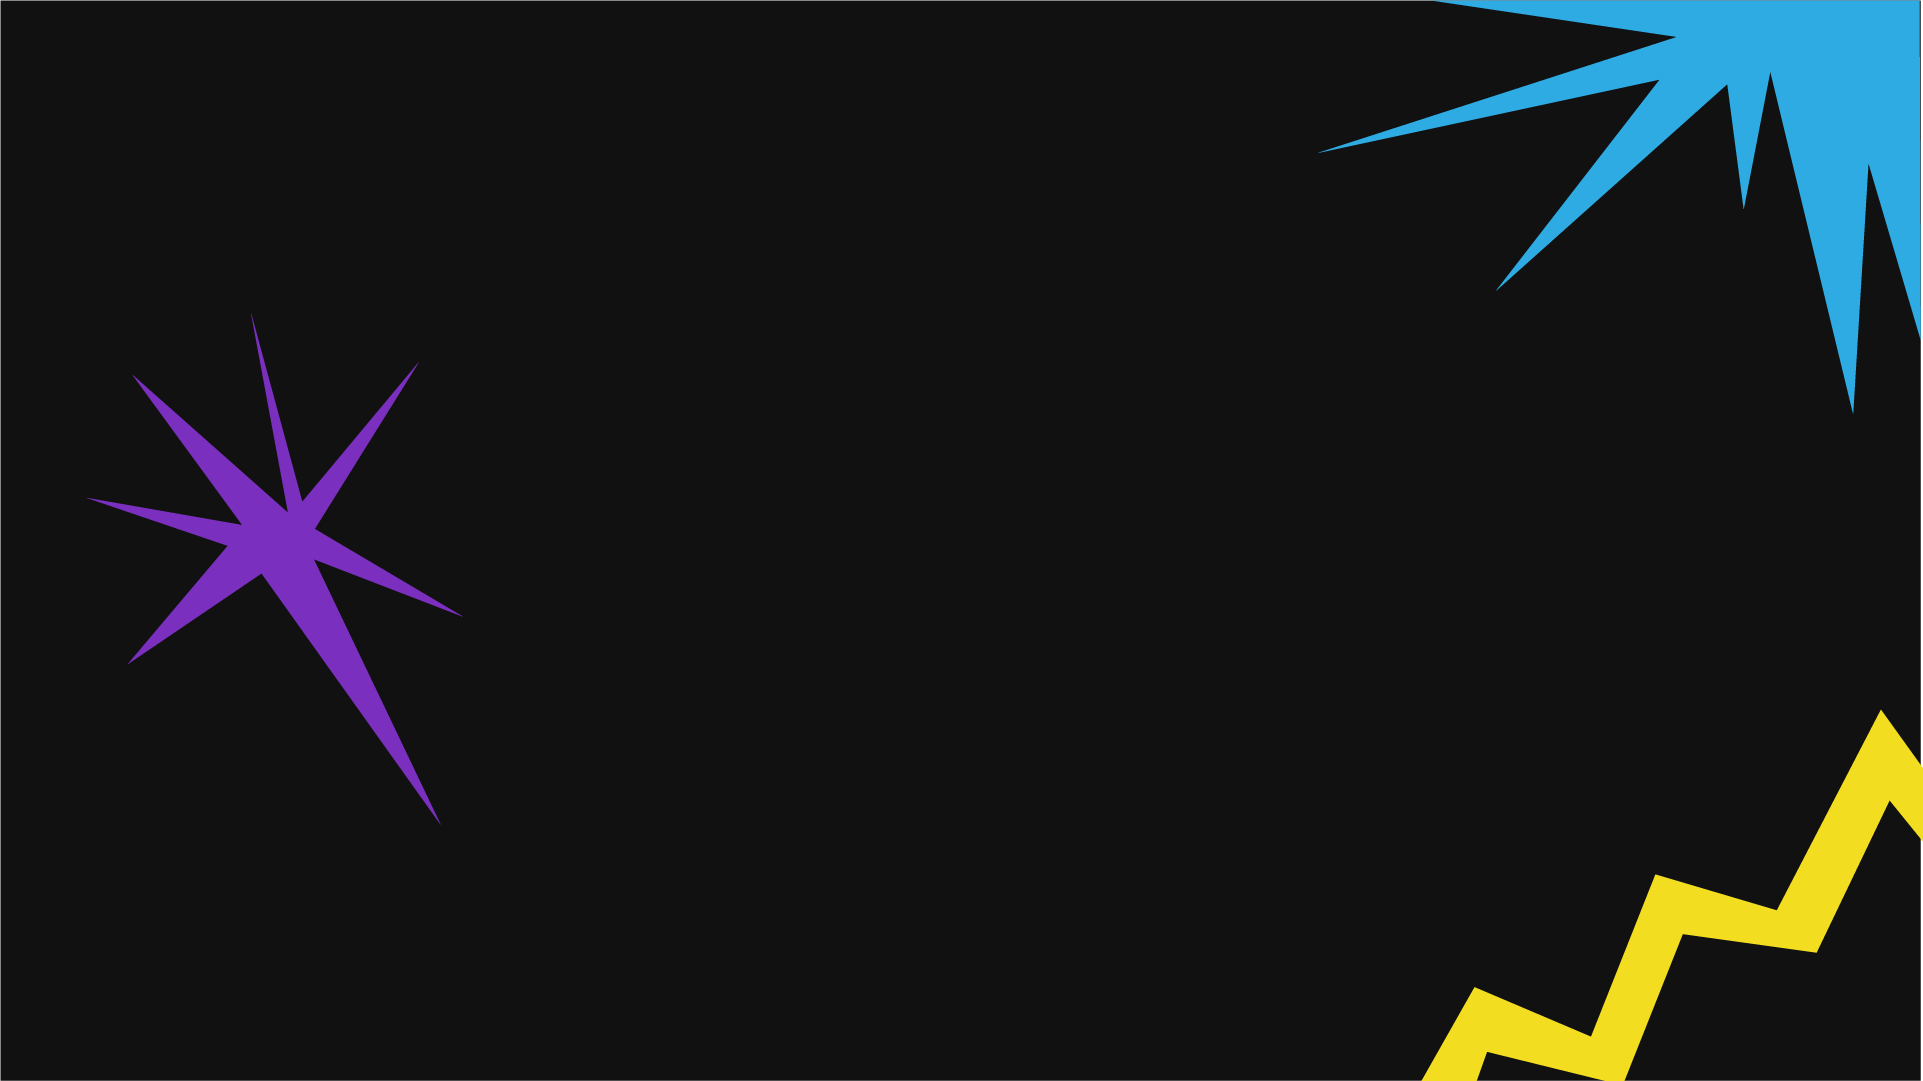
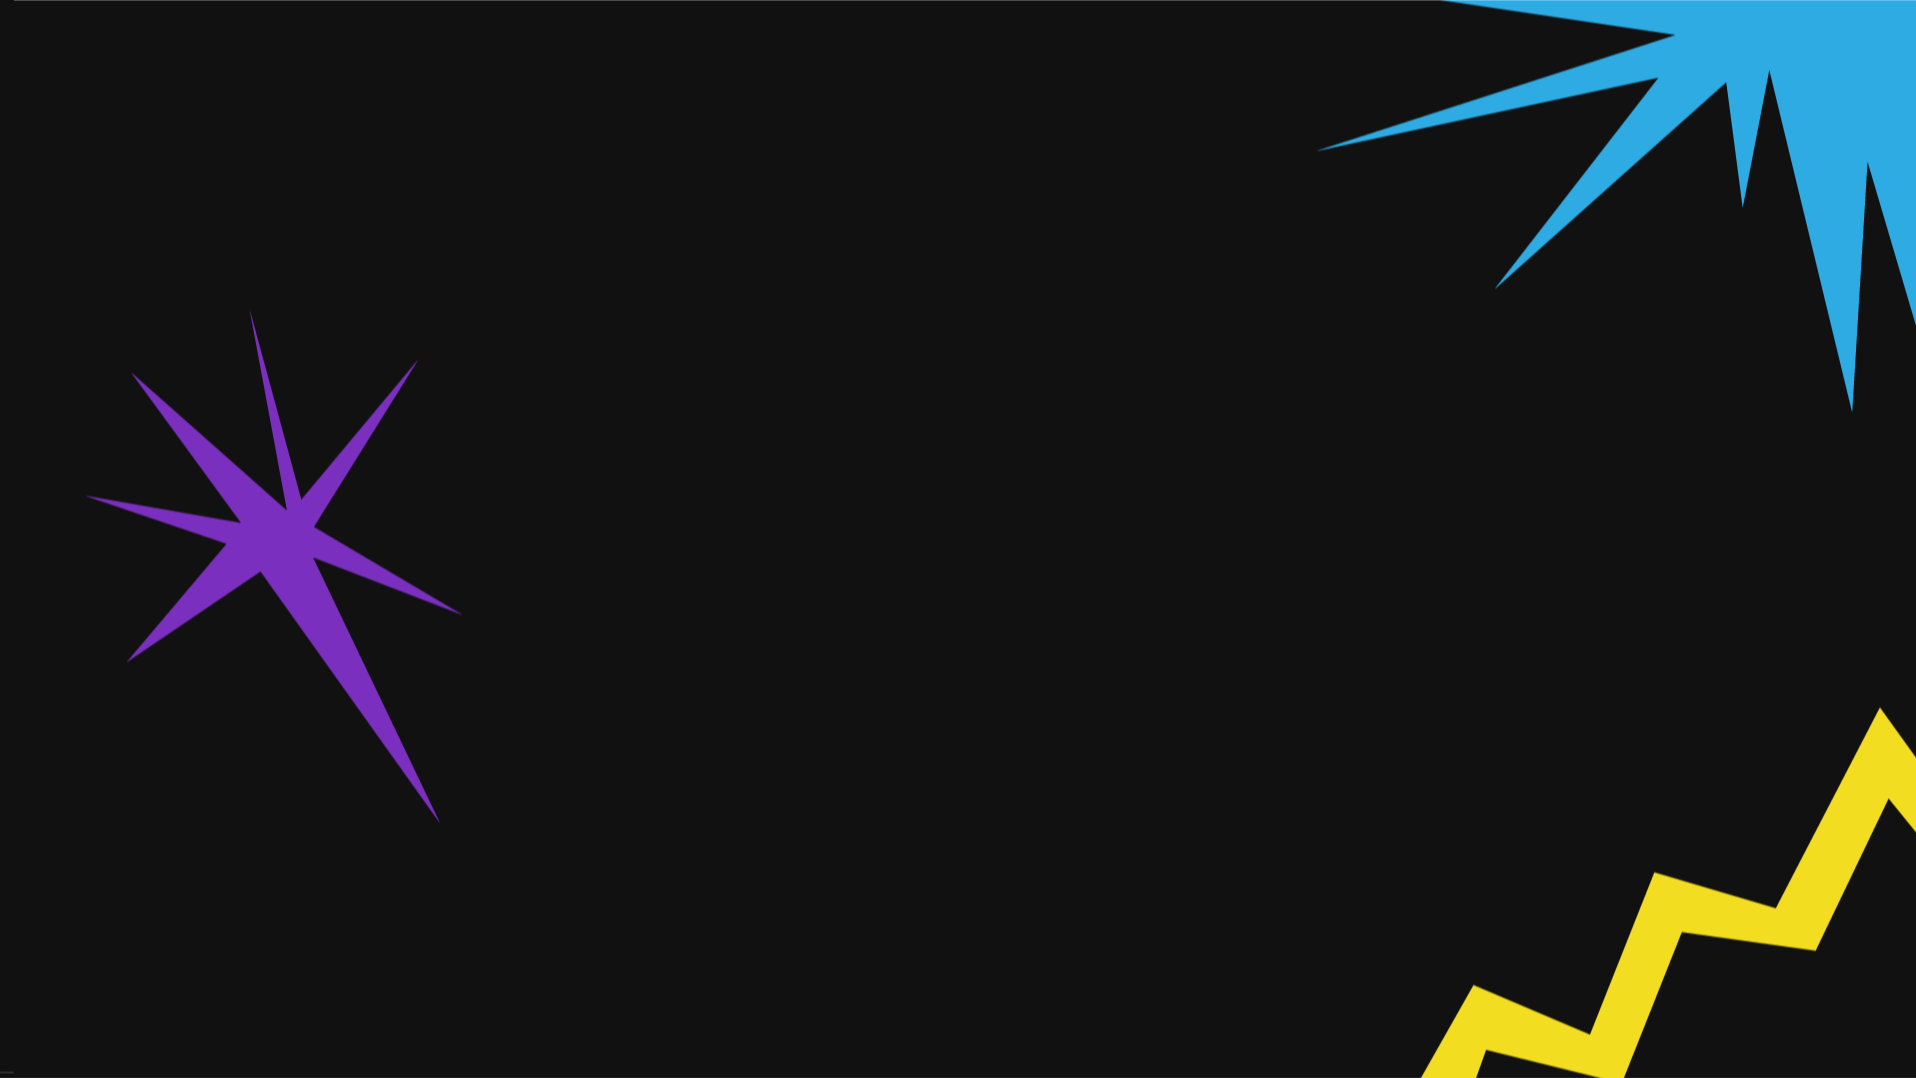
que buenos son nuevos vicios

diff --git a/src/pages/programa/DetalleArtista.vue b/src/pages/programa/DetalleArtista.vue
@@ -1,7 +1,7 @@
 <script setup lang="ts">
 import { useRoute, useRouter } from 'vue-router'
-import { ArrowLeft, Instagram, Twitter, Music } from 'lucide-vue-next'
-import { computed } from 'vue'
+import { ArrowLeft, Instagram, Twitter, Music, Volume2, VolumeX } from 'lucide-vue-next'
+import { computed, ref, watch, onUnmounted } from 'vue'
 import { getArtistById } from '@/data/data'
 
 const route = useRoute()
@@ -10,44 +10,95 @@ const router = useRouter()
 const artistId = computed(() => route.params.id as string)
 const artist = computed(() => getArtistById(artistId.value))
 
+// Lógica de reproducción de audio nativa y dinámica
+const isPlaying = ref(false)
+let audioNode: HTMLAudioElement | null = null
+
+const toggleAudio = () => {
+  if (!artist.value || !artist.value.audio) return
+
+  // Si no existe la instancia, la creamos con el audio del artista actual
+  if (!audioNode) {
+    audioNode = new Audio(artist.value.audio)
+    audioNode.loop = true
+    // Si la canción termina (en caso de quitar el loop), reseteamos el icono
+    audioNode.onended = () => {
+      isPlaying.value = false
+    }
+  }
+
+  if (isPlaying.value) {
+    audioNode.pause()
+  } else {
+    audioNode.play().catch(err => console.log("Error al reproducir audio:", err))
+  }
+  
+  isPlaying.value = !isPlaying.value
+}
+
+// Limpieza absoluta si se cambia de artista o se sale de la página
+const stopAudio = () => {
+  if (audioNode) {
+    audioNode.pause()
+    audioNode = null
+  }
+  isPlaying.value = false
+}
+
+// Si el usuario navega a otro artista directamente, matamos el audio anterior
+watch(artistId, () => {
+  stopAudio()
+})
+
+onUnmounted(() => {
+  stopAudio()
+})
+
 const goBack = () => {
   router.push('/programa/artistas')
 }
 </script>
 
 <template>
-  <div class="font-sans bg-black text-white">
-    <div class="container mx-auto">
+  <div class="font-sans bg-background text-white">
+    <div class="container mx-auto pt-8">
       
       <button 
         @click="goBack" 
-        class="flex items-center gap-2 text-brand-yellow hover:text-white mb-12 transition-colors font-bold uppercase"
+        class="flex items-center gap-2 text-brand-yellow hover:text-white  mb-6 transition-colors font-bold uppercase"
       >
         <ArrowLeft :size="24" /> Volver a Artistas
       </button>
 
       <div v-if="artist" class="flex flex-col md:flex-row gap-12 items-start">
-        <div class="w-full md:w-1/2 aspect-square border-4 border-black overflow-hidden">
+      <div class="w-full md:w-1/2 aspect-square border-4 border-black overflow-hidden">
           <img :src="artist.img" :alt="artist.name" class="w-full h-full object-cover" />
         </div>
 
         <div class="w-full md:w-1/2 space-y-8">
           <div>
             <h1 class="text-5xl md:text-7xl font-extrabold uppercase text-brand-blue mb-2 tracking-tight">{{ artist.name }}</h1>
-            <h2 class="text-2xl text-gray-400 uppercase font-bold">{{ artist.genre }}</h2>
+            <h2 class="text-2xl text-gray-300 uppercase font-regular">{{ artist.genre }}</h2>
           </div>
 
-          <div class="flex items-center gap-3">
+          <div class="flex items-center gap-4">
             <span class="bg-brand-yellow text-black px-4 py-1 font-bold uppercase text-sm border-2 border-black">
               {{ artist.day }}
             </span>
+            
+            <button 
+              v-if="artist.audio"
+              @click="toggleAudio"
+              class="p-2 border-2 border-black transition-all transform active:translate-x-0.5 active:translate-y-0.5 active:shadow-none cursor-pointer flex items-center justify-center rounded-none shadow-[2px_2px_0_0_#000]"
+              :class="isPlaying ? 'bg-brand-yellow text-black' : 'bg-neutral-800 text-white'"
+              title="Escuchar tema"
+            >
+              <Volume2 v-if="isPlaying" :size="20" class="animate-pulse" />
+              <VolumeX v-else :size="20" class="text-gray-400" />
+            </button>
           </div>
 
-          <div class="flex flex-wrap gap-2">
-            <span v-for="tag in artist.tags" :key="tag" class="px-3 py-1 border border-white/20 text-gray-300 text-sm uppercase font-bold">
-              #{{ tag }}
-            </span>
-          </div>
+          
 
           <div class="text-gray-300 leading-relaxed text-lg whitespace-pre-wrap">
             {{ artist.description }}

diff --git a/src/data/data.ts b/src/data/data.ts
@@ -8,8 +8,8 @@ export interface Artist {
   genre: string
   description: string
   day: string
-  tags: string[]
   img: string
+  audio?: string
 }
 
 export interface Workshop {
@@ -83,8 +83,8 @@ export const artists: Artist[] = [
     genre: 'Dream pop / Indie pop',
     description: 'Luna Valle ha irrumpido en la escena valenciana construyendo un universo sonoro propio, donde la sensibilidad y la emoción conviven y crean letras que dejan huella.\n\nDe la mano de Tórtel en la producción, Luna Valle transforma experiencias íntimas en paisajes musicales envolventes, capaces de conectar con quien escucha desde el primer momento.\n\nAdemás de su actuación, participará el viernes en el debate "¿Es necesario venderte para tu arte?", una conversación abierta sobre creación e identidad.',
     day: 'Viernes 23',
-    tags: ['Dream Pop', 'Indie Pop', 'Local'],
-    img: new URL('@/assets/lunavalle.jpg', import.meta.url).href
+    img: new URL('@/assets/lunavalle.jpg', import.meta.url).href,
+    audio: '/audio/repioncancion.mp3'
   },
   {
     id: 'diamante-negro',
@@ -92,8 +92,8 @@ export const artists: Artist[] = [
     genre: 'Punk pop / Punk / Indie rock',
     description: 'Diamante Negro nace de la unión entre un fisioterapeuta, un enfermero y un técnico de sonido que se encontraron entre amistades, escenarios y las interminables noches de la escena barcelonesa.\n\nLa primera vez que tocaron juntos ni siquiera sabían qué era exactamente Diamante Negro. Y quizá todavía no lo sepan del todo. Pero precisamente ahí reside su esencia: una banda que huye de las etiquetas y convierte la libertad absoluta en su forma de hacer música.\n\nDiamante Negro llega dispuesto a convertir el caos en celebración.',
     day: 'Viernes 23',
-    tags: ['Punk Pop', 'Indie Rock', 'Barcelona'],
-    img: new URL('@/assets/diamanteNegro.jpg', import.meta.url).href
+    img: new URL('@/assets/diamanteNegro.jpg', import.meta.url).href,
+    audio: '/audio/diamantenegrocancion.mp3'
   },
   {
     id: 'tranquilorayo',
@@ -101,17 +101,17 @@ export const artists: Artist[] = [
     genre: 'Rock / Indie / Indie rock',
     description: 'Cinco hombres de mediana edad, mucho sentido del humor y una única misión: pasarlo bien haciendo música. TranquiloRayo! llega desde Murcia con un directo desenfadado, energético y lleno de personalidad.\n\nConvierten cada canción en una explosión de guitarras, ironía y buen rollo, demostrando que el indie también puede ser espontáneo, divertido y totalmente imprevisible.',
     day: 'Sábado 24',
-    tags: ['Rock', 'Indie', 'Murcia'],
-    img: new URL('@/assets/tranquiloRayo.jfif', import.meta.url).href
+    img: new URL('@/assets/tranquiloRayo.jfif', import.meta.url).href,
+    audio: '/audio/tranquilorayocancion.mp3'
   },
   {
     id: 'garbi',
     name: 'Garbi',
     genre: 'Alt rock / Emo / Post-todo',
-    description: 'Garbi nace de la unión de cuatro amigos de Valencia que hacen música desde la honestidad, sin normas ni etiquetas que limiten hacia dónde puede ir cada canción.\n\nEntre guitarras envolventes, sensibilidad emo y una mezcla constante de estilos, Garbi construye un sonido intenso y atmosférico que se mueve entre la nostalgia y la explosión emocional.\n\nAdemás de su actuación, participarán el sábado en el Taller de japonés.',
+    description: 'Garbi nace de la unión de cuatro amigos de Valencia que hacen música desde la honestidad, sin normas ni etiquetas que limiten hacia dónde puede ir cada canción.\n\nEntre guitarras envolventes, sensibilidad emo y una mezcla constante de estilos, Garbi construye un sonido intenso y atmosférico que se mueve entre la nostalgia y la explosión emocional.\n\nAdemás de su actuación, participarán el sábado en el Taller de escritura japonesa a las 16h.',
     day: 'Sábado 24',
-    tags: ['Alt Rock', 'Emo', 'Valencia'],
-    img: new URL('@/assets/garbi.png', import.meta.url).href
+    img: new URL('@/assets/garbi.png', import.meta.url).href,
+    audio: '/audio/garbicancion.mp3'
   },
   {
     id: 'repion',
@@ -119,8 +119,8 @@ export const artists: Artist[] = [
     genre: 'Rock alternativo / Grunge rock',
     description: 'Repion, formado por las hermanas Marina y Teresa Iñesta, se ha convertido en una de las propuestas más sólidas y enérgicas del panorama independiente nacional.\n\nCon una clara influencia del rock de los años 90, Repion combina melodías irresistibles con una fuerza arrolladora sobre el escenario, moviéndose entre la sensibilidad y la distorsión con total naturalidad.',
     day: 'Sábado 24',
-    tags: ['Rock Alternativo', 'Grunge', 'España'],
-    img: new URL('@/assets/repion.jpg', import.meta.url).href
+    img: new URL('@/assets/repion.jpg', import.meta.url).href,
+    audio: '/audio/repioncancion.mp3'
   },
   {
     id: 'mr-kennedy',
@@ -128,8 +128,8 @@ export const artists: Artist[] = [
     genre: 'Indie / Indie rock',
     description: 'Mr. Kennedy se ha convertido en una de las propuestas más frescas de la escena indie valenciana gracias a su energía sobre el escenario y a una identidad que solo puede entenderse viviéndola en persona.\n\nTras una gran cantidad de conciertos, su música sigue sin estar disponible en plataformas de streaming. No hay adelantos, algoritmos ni reproducción automática: Mr. Kennedy solo existe plenamente en directo.',
     day: 'Domingo 25',
-    tags: ['Indie', 'Indie Rock', 'Valencia'],
-    img: new URL('@/assets/kennedy.jfif', import.meta.url).href
+    img: new URL('@/assets/kennedy.jfif', import.meta.url).href,
+    audio: '/audio/mrkennedycancion.mp3'
   },
   {
     id: 'nuevos-vicios',
@@ -137,8 +137,9 @@ export const artists: Artist[] = [
     genre: 'Indie rock / Pop rock',
     description: 'Nuevos Vicios nace en Valencia a principios de 2023 fusionando la fuerza del rock alternativo de los 90 con la nueva ola del indie nacional.\n\nSu sonido combina guitarras intensas y enérgicas con estribillos inmediatos, melodías pop y letras que hablan de amor, frustración y malestar generacional, conectando con una escena que busca autenticidad y emoción sin filtros.\n\nCon la experiencia acumulada en proyectos anteriores, Nuevos Vicios lleva al directo una propuesta sólida, potente y hecha para dejar huella sobre el escenario.',
     day: 'Domingo 25',
-    tags: ['Indie Rock', 'Pop Rock', 'Valencia'],
-    img: new URL('@/assets/nuevosVicios.jpg', import.meta.url).href
+
+    img: new URL('@/assets/nuevosVicios.jpg', import.meta.url).href,
+    audio: '/audio/nuevosvicioscancion.mp3'
   },
   {
     id: 'bum-motion-club',
@@ -146,8 +147,8 @@ export const artists: Artist[] = [
     genre: 'Dream pop / Shoegaze',
     description: 'Bum Motion Club ha construido uno de los universos sonoros más personales de la escena independiente actual, moviéndose entre la delicadeza emocional y una contundencia cada vez más arrolladora.\n\nDesde Aranjuez, el proyecto ha evolucionado hasta convertirse en un auténtico secreto a voces dentro del panorama nacional, destacando por una propuesta donde conviven distorsiones afiladas, melodías adictivas y atmósferas soñadoras cargadas de tensión y sensibilidad.',
     day: 'Domingo 25',
-    tags: ['Dream Pop', 'Shoegaze', 'Aranjuez'],
-    img: new URL('@/assets/bumMotionClub.jpg', import.meta.url).href
+    img: new URL('@/assets/bumMotionClub.jpg', import.meta.url).href,
+    audio: '/audio/bummotionclubcancion.mp3'
   }
 ]
 

diff --git a/src/pages/home/Home.vue b/src/pages/home/Home.vue
@@ -100,22 +100,21 @@ const noTeLopierdas = [
 <template>
   <div class="min-h-screen font-sans bg-[#111111] text-white pb-32 overflow-x-hidden w-full">
     
-    <section class="relative w-full flex flex-col items-center justify-center text-center px-4 mb-20" :style="{ backgroundImage: `url(${portada})`, backgroundSize: 'cover', backgroundPosition: 'center' }">
-      <div class="absolute inset-0 bg-black/40"></div>
-      <div class="relative z-10 py-32 flex flex-col items-center justify-center">
-        <img :src="logoHorizontal" alt="Esclat Logo" class="w-72 sm:w-96 md:w-[450px] lg:w-[550px] object-contain mb-8 max-w-full" />
-        <p class="text-lg md:text-2xl text-gray-200 mb-10 font-medium">
-          Festival de Música, Culture y Pensamiento Crítico
-        </p>
-        <button 
-          @click="navigateToEntradas"
-          class="bg-brand-yellow text-black font-extrabold text-xl md:text-2xl py-4 px-10 rounded-none uppercase transition-transform hover:scale-105 shadow-[8px_8px_0_0_theme(colors.brand.purple)] hover:shadow-[4px_4px_0_0_theme(colors.brand.purple)] cursor-pointer"
-        >
-          Consigue tu entrada
-        </button>
-      </div>
-    </section>
+<section class="relative w-full flex flex-col items-center justify-center text-center px-4 mb-20" :style="{ backgroundImage: `url(${portada})`, backgroundSize: '100% 100%', backgroundPosition: 'center', backgroundRepeat: 'no-repeat', aspectRatio: '1920/1080' }">
 
+  <div class="relative z-10 py-32 flex flex-col items-center justify-center">
+    <img :src="logoHorizontal" alt="Esclat Logo" class="w-72 sm:w-96 md:w-[470px] lg:w-[550px] object-contain mb-8 max-w-full" />
+    <p class="text-[10px] md:text-2xl text-gray-200 mb-10 font-medium">
+      Festival de Música, Cultura y Pensamiento Crítico
+    </p>
+    <button 
+      @click="navigateToEntradas"
+      class="bg-brand-yellow text-black font-bold text-xl md:text-2xl py-4 px-10 rounded-none uppercase transition-transform hover:scale-105 shadow-[4px_4px_0_0_theme(colors.brand.purple)] hover:shadow-[6px_6px_0_0_theme(colors.brand.purple)] cursor-pointer"
+    >
+      Consigue tu entrada
+    </button>
+  </div>
+</section>
     <section class="max-w-7xl mx-auto px-4 md:px-8 py-20 mb-32 w-full bg-[#111111]">
       <div class="grid grid-cols-1 md:grid-cols-3 gap-8 md:gap-16 items-start relative">
         

diff --git a/src/components/layout/MainLayout.vue b/src/components/layout/MainLayout.vue
@@ -15,7 +15,7 @@ import 'vue-sonner/style.css'
 
       <main 
         :class="[
-          'flex-1 mt-16 transition-all duration-300', 
+          'flex-1 transition-all duration-300', 
           $route.meta.fullWidth 
             ? 'w-full' 
             : 'pt-12 pb-20 px-4 md:px-8 max-w-7xl mx-auto w-full'
@@ -39,6 +39,13 @@ import 'vue-sonner/style.css'
 </template>
 
 <style scoped>
+:global(html) {
+  scrollbar-width: none;
+}
+
+:global(html::-webkit-scrollbar) {
+  display: none;
+}
 .fade-enter-active,
 .fade-leave-active {
   transition: opacity 0.2s ease;